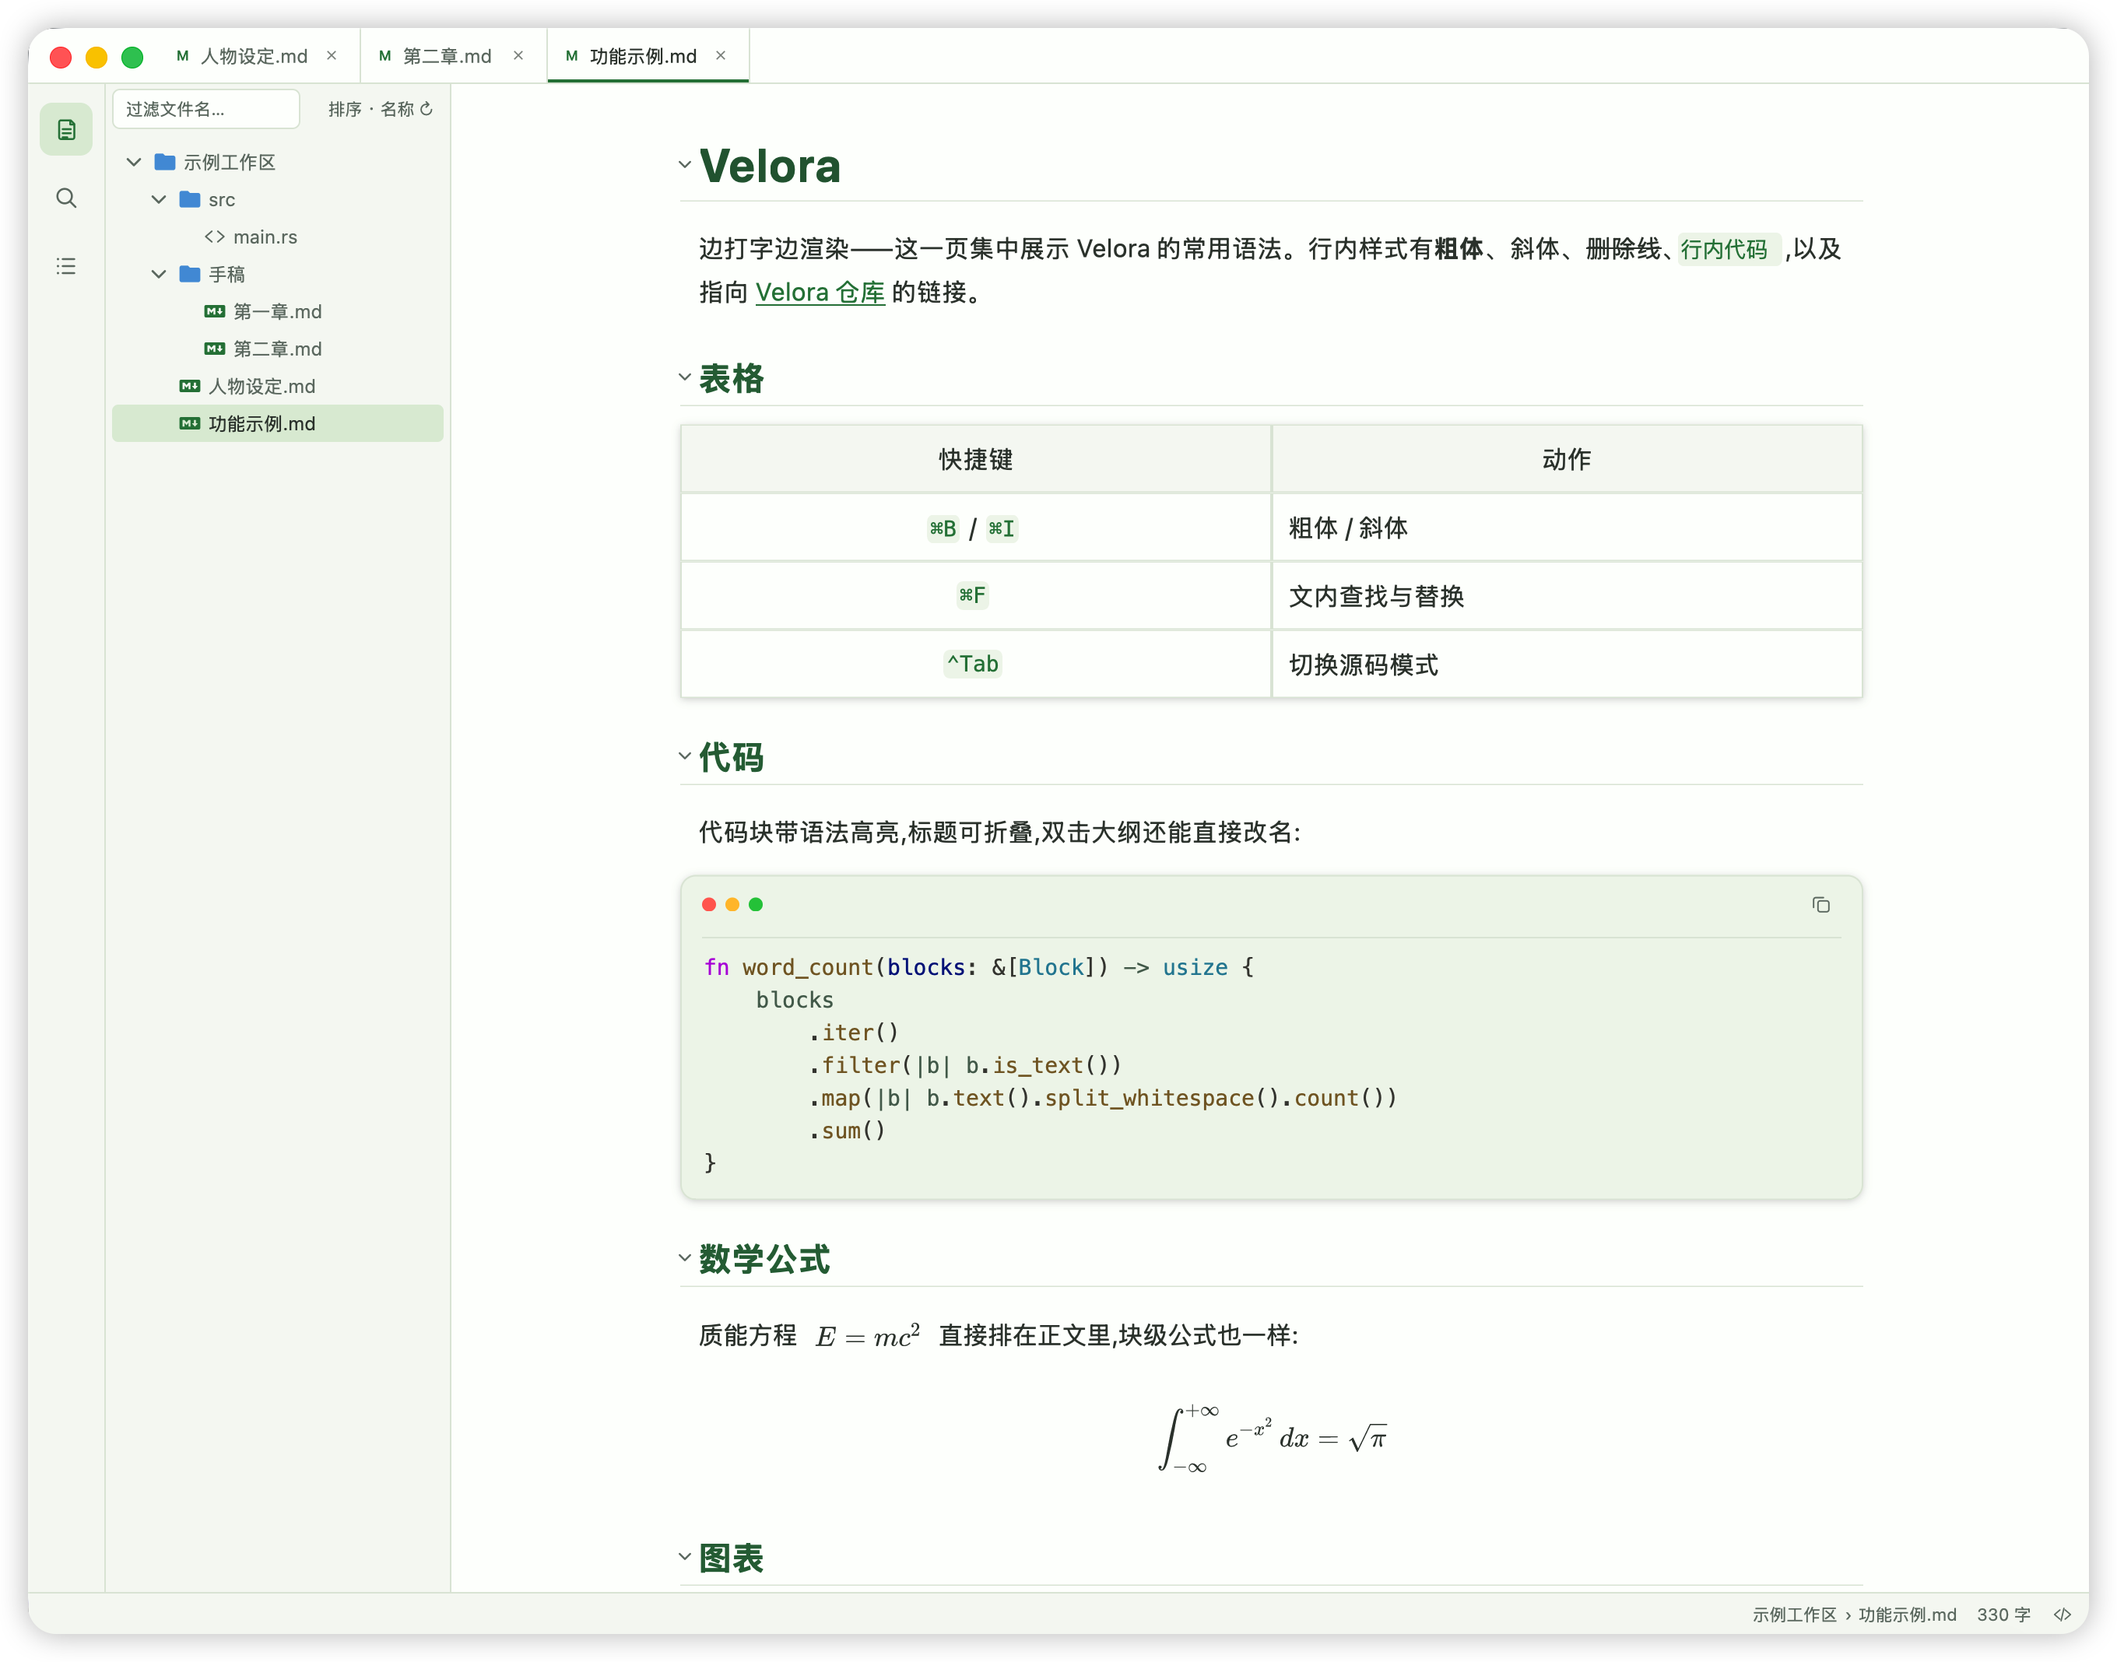
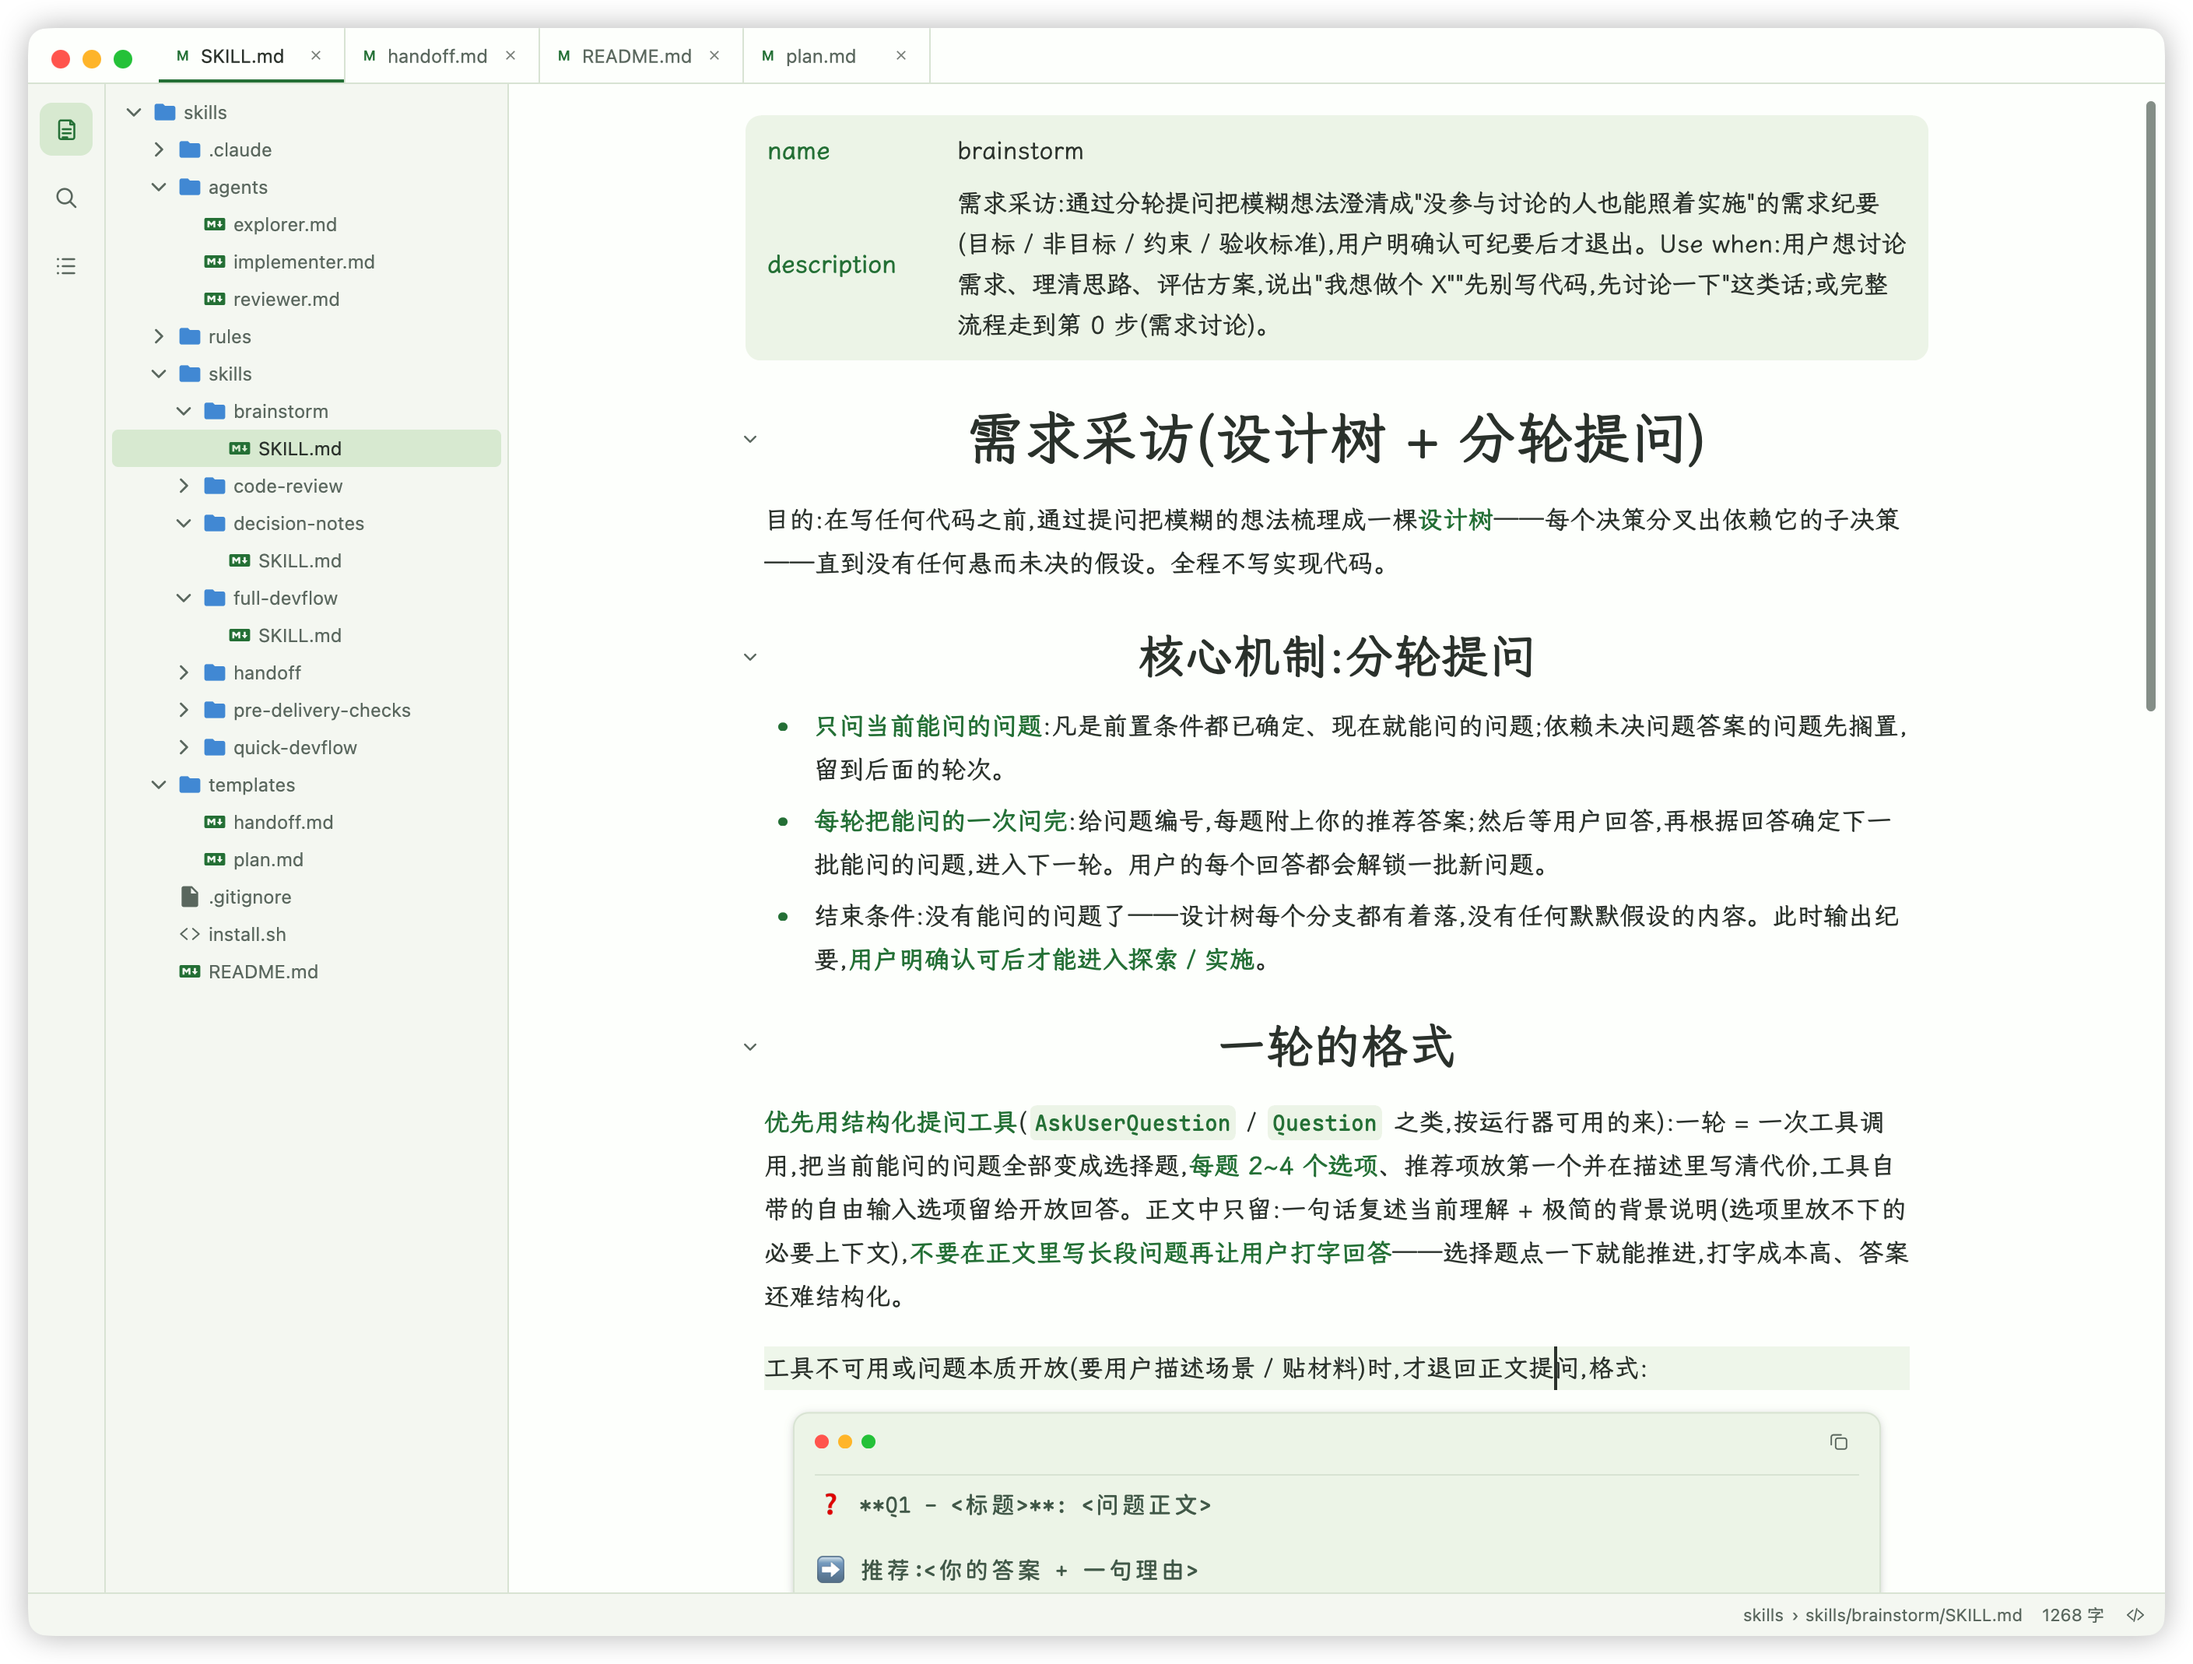
docs(readme): 更新界面截图、演示素材与配图测试
背景：
- 项目首页需要展示编辑视图与工作区的界面细节。
- 工作区截图同时作为图片缩放夹具，固定宽高比会随换图失效。

实现：
- 更新中英文 README 的截图与说明，补充编辑视图配图。
- 增加 assets/demo/showcase.md，并同步配图的架构文档说明。
- 图片缩放测试从 PNG 的 IHDR 字段读取夹具宽高比。

影响：
- 更新项目展示素材，缩放断言适应截图尺寸变化。
- 不修改产品代码。

测试：
- 两个 README 的本地图片引用检查与 PNG 文件头检查通过。
- 图片缩放相关测试 9 条全部通过。
- git diff --cached --check 通过；全量构建与测试待核心修复收尾执行。

diff --git a/src/editor/tests/image_scale.rs b/src/editor/tests/image_scale.rs
@@ -1,6 +1,18 @@
 use super::common::*;
 use gpui::{Entity, MouseButton, point};
 
+/// 夹具图的高宽比——从 PNG 自己的 IHDR 头里读，不写死数字。
+///
+/// 这几条断言的是「图片随宽度等比缩放」，算期望高度就得知道这张图本身的宽高比。
+/// 写死的话，README 每换一次封面图就要回来改测试；两条断言各写一遍还会漏一遍。
+fn fixture_image_aspect(path: &std::path::Path) -> f32 {
+    let header = std::fs::read(path).expect("read the fixture image");
+    // 8 字节签名 + 4 字节块长度 + "IHDR"，其后是宽、高各 4 字节大端。
+    let width = u32::from_be_bytes(header[16..20].try_into().expect("IHDR width field"));
+    let height = u32::from_be_bytes(header[20..24].try_into().expect("IHDR height field"));
+    height as f32 / width as f32
+}
+
 fn open_image_menu(cx: &mut VisualTestContext) {
     let image = cx.debug_bounds("image-content").expect("图片或占位框");
     let position = image.center();
@@ -48,6 +60,7 @@ async fn image_scale_baseline_follows_the_text_column_and_keeps_the_aspect_ratio
     let image_path =
         PathBuf::from(env!("CARGO_MANIFEST_DIR")).join("assets/screenshots/workspace.png");
     let markdown = format!("![图例]({})", image_path.display());
+    let aspect = fixture_image_aspect(&image_path);
     let (editor, cx) =
         cx.add_window_view(|_, cx| Editor::from_markdown(cx, markdown.clone(), None));
     for (width, sidebar_open) in [
@@ -96,7 +109,7 @@ async fn image_scale_baseline_follows_the_text_column_and_keeps_the_aspect_ratio
                 "窗口 {width} 的 {percent}% 应按正文宽度计算：期望 {expected_width}，实际 {scaled:?}"
             );
             assert!(
-                (f32::from(scaled.height) - expected_width * 2136.0 / 2720.0).abs() < 1.0,
+                (f32::from(scaled.height) - expected_width * aspect).abs() < 1.0,
                 "图片高度应随宽度等比变化，实际 {scaled:?}"
             );
         }
@@ -111,6 +124,7 @@ async fn image_scale_layout_keeps_the_aspect_ratio_with_a_container_width(cx: &m
     let image_path =
         PathBuf::from(env!("CARGO_MANIFEST_DIR")).join("assets/screenshots/workspace.png");
     let markdown = format!("![图例]({})", image_path.display());
+    let aspect = fixture_image_aspect(&image_path);
     let (_block, cx) = cx.add_window_view(|_, cx| {
         let mut block = Block::with_record(
             cx,
@@ -130,7 +144,7 @@ async fn image_scale_layout_keeps_the_aspect_ratio_with_a_container_width(cx: &m
         .expect("列表图片尺寸")
         .size;
     assert!(
-        (f32::from(size.height) - f32::from(size.width) * 2136.0 / 2720.0).abs() < 1.0,
+        (f32::from(size.height) - f32::from(size.width) * aspect).abs() < 1.0,
         "图片布局框应贴合实际图片，不保留多余高度，实际 {size:?}"
     );
 }

diff --git a/docs/architecture/testing-and-build.md b/docs/architecture/testing-and-build.md
@@ -68,5 +68,5 @@ cargo test         # 全量；大文档预算测试需要先生成 perf 夹具
 - scripts/package-macos.sh：release 构建 → .app（Info.plist/图标）→ pkgbuild/productbuild → dist/。
 - scripts/package-windows.ps1 + .nsi：PowerShell 7 在 Windows x64 MSVC 环境中原生 `--release` 构建，自动定位 Windows SDK 的 `fxc.exe`，断言 PE32+ 且内嵌 manifest 字符串（回归守卫），生成 NSIS 安装包。
 - resources/：macOS Info.plist/pkg Distribution、windows .rc/.manifest（build.rs 内嵌）。
-- assets/icon/：应用图标 + 标题栏 chrome SVG（main.rs 内嵌）+ 侧栏 SVG 图标集；assets/screenshots/：README 截图（workspace.png / themes.png）。
+- assets/icon/：应用图标 + 标题栏 chrome SVG（main.rs 内嵌）+ 侧栏 SVG 图标集；assets/screenshots/：README 截图（workspace.png / editor.png / themes.png）。workspace.png 另被 `editor/tests/image_scale.rs` 当图片缩放夹具，那张图的高宽比由测试从 PNG 头读，换图不必改测试。
 - **i18n 是代码不是数据文件**：src/i18n/mod.rs 内置 zh-CN/en-US 两套；外部 JSON(C) 语言包经 `from_json` 加载（用户 languages 目录直放即用）。新增 UI 字符串要同时登记两处内置表。

diff --git a/assets/demo/showcase.md b/assets/demo/showcase.md
@@ -1,0 +1,33 @@
+# Velora
+
+支持边打字边渲染：行内样式有**粗体**、*斜体*、~~删除线~~、`行内代码`、==高亮==，[链接可指外部地址](https://github.com/sheriby/velora)，也可跳[文内锚点](#1)。
+
+| 快捷键 | 动作 |
+| --- | --- |
+| `⌘B` / `⌘I` | 粗体 / 斜体 |
+| `⌘F` | 查找与替换 |
+| `^Tab` | 切换源码模式 |
+
+质能方程 $E=mc^2$ 直接排在正文里，块级公式也一样：
+
+$$
+\int_{-\infty}^{+\infty} e^{-x^2}\,dx = \sqrt{\pi}
+$$
+
+- 回车续写列表，`Tab` 缩进、`⇧Tab` 升回
+  - 支持任意层嵌套，记号族不会被改写
+- [x] 导入、编辑、导出逐字节对齐
+- [ ] 剩下的评审必修项
+
+代码块带语法高亮，右上角一键复制：
+
+```rust
+fn word_count(blocks: &[Block]) -> usize {
+    blocks.iter().filter(|b| b.is_text())
+        .map(|b| b.text().split_whitespace().count()).sum()
+}
+```
+
+> 引用块里的样式同样生效，脚注挂在这里[^1]；`[[引用笔记.md]]` 点击即打开或创建同名笔记。
+
+[^1]: 脚注与链接引用支持悬停预览，`[TOC]` 渲染成可点击目录。

diff --git a/README.md b/README.md
@@ -8,7 +8,15 @@ Velora is a native Markdown editor built on Rust and GPUI: no Electron, no WebVi
 
 ## Screenshots
 
-![The Velora workspace: file tree, multiple tabs, and live WYSIWYG Markdown editing](assets/screenshots/workspace.png)
+*WYSIWYG editing: inline styles, tables, code highlighting and LaTeX, with tabs merged into the title bar.*
+
+![Live WYSIWYG Markdown editing: inline styles, tables, code highlighting and LaTeX](assets/screenshots/editor.png)
+
+*The workspace: file tree and multiple tabs, with frontmatter rendered as a property card, collapsible headings and syntax-highlighted code blocks.*
+
+![The Velora workspace: file tree, multiple tabs and rendered Markdown (frontmatter card, collapsible headings, lists and code blocks)](assets/screenshots/workspace.png)
+
+*Six built-in themes, with automatic switching to the system appearance.*
 
 ![The six built-in themes: Velora Light, Paper, Forest, Velora Dark, Midnight and Ink](assets/screenshots/themes.png)
 

diff --git a/README_CN.md b/README_CN.md
@@ -8,7 +8,15 @@ Velora 是基于 Rust 与 GPUI 构建的原生 Markdown 编辑器：无 Electron
 
 ## 界面预览
 
-![Velora 工作区：文件树、多标签页与实时所见即所得编辑](assets/screenshots/workspace.png)
+*所见即所得：行内样式、表格、代码高亮与 LaTeX 公式，标签页并入标题栏。*
+
+![实时所见即所得编辑：行内样式、表格、代码高亮与 LaTeX 公式](assets/screenshots/editor.png)
+
+*工作区：文件树与多标签页，正文里的 frontmatter 收成属性卡片、标题可折叠、代码块带语法高亮。*
+
+![Velora 工作区：文件树、多标签页与渲染中的 Markdown（frontmatter 卡片、可折叠标题、列表与代码块）](assets/screenshots/workspace.png)
+
+*六套内置主题，并可跟随系统外观自动切换。*
 
 ![六套内置主题：Velora Light、Paper、Forest、Velora Dark、Midnight 与 Ink](assets/screenshots/themes.png)
 
